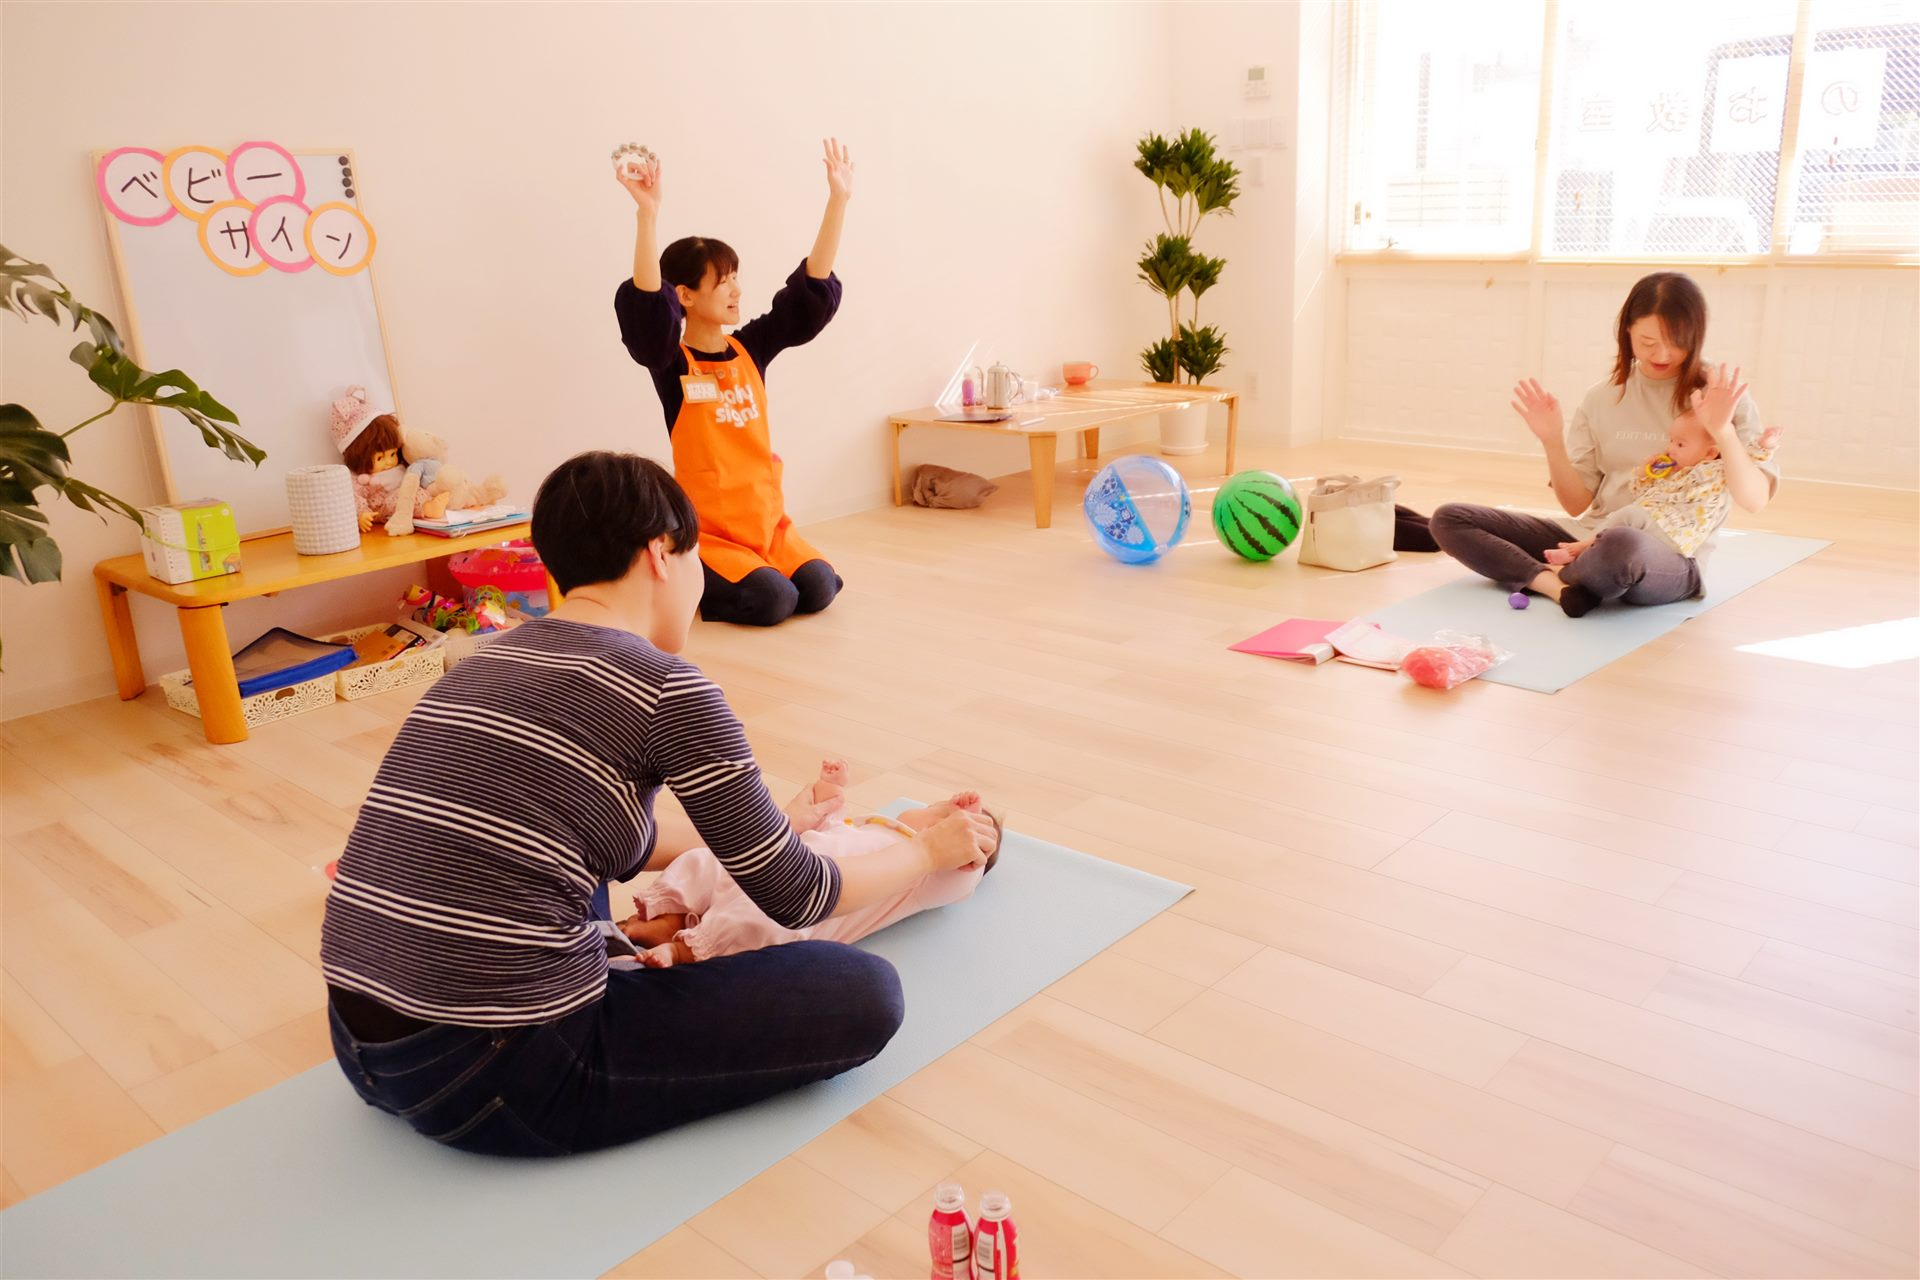
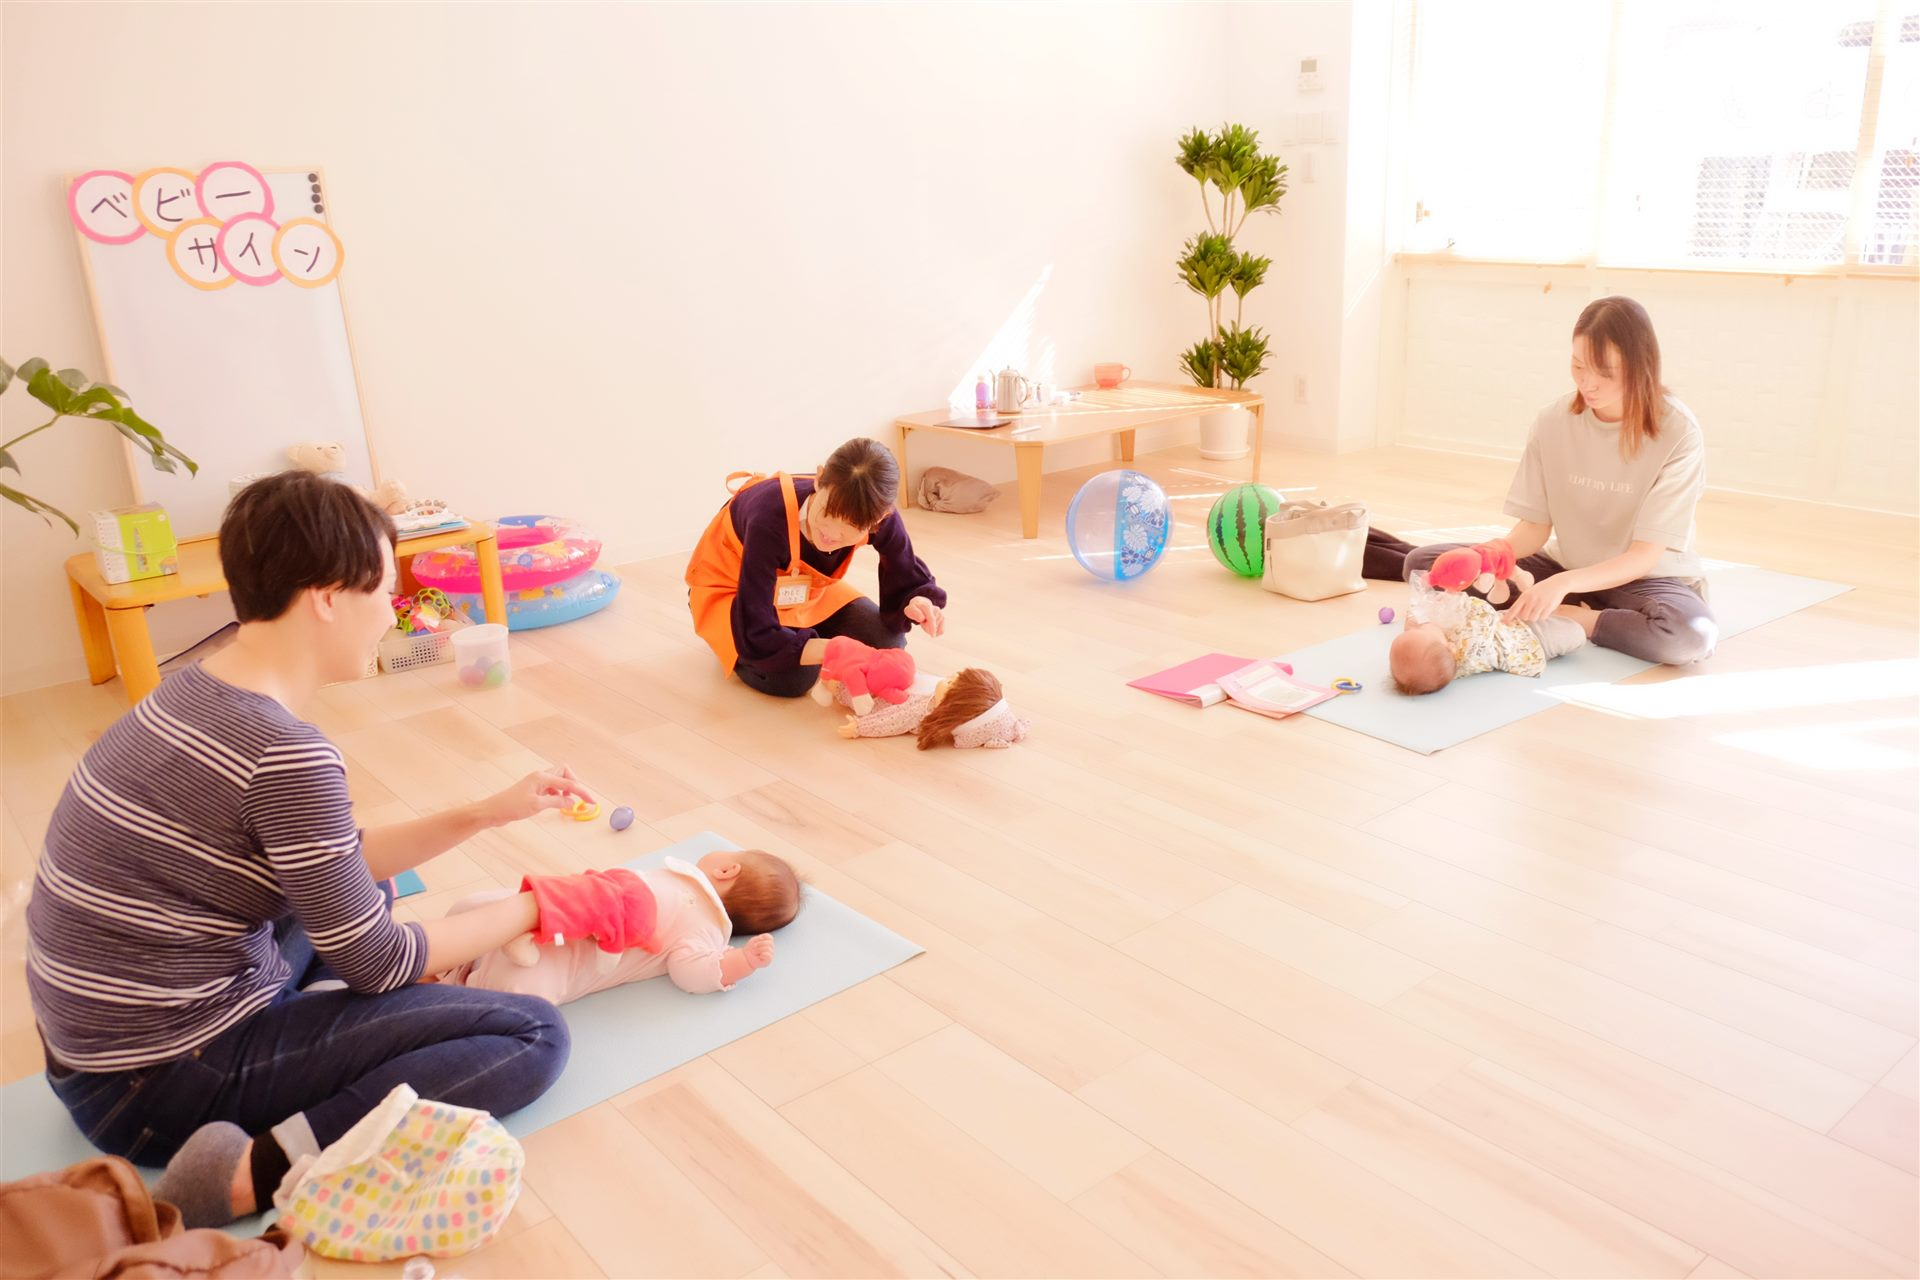
インストラクター写真・ベビーサインFV写真を差し替え、クロップ位置修正

diff --git a/index.html b/index.html
@@ -86,7 +86,7 @@
       object-fit: cover; object-position: center center;
     }
     .fv-slide:first-child .fv-img { object-position: 47% center; }
-    .fv-slide:nth-child(2) .fv-img { object-position: 20% center; }
+    .fv-slide:nth-child(2) .fv-img { object-position: 35% center; }
     .fv-overlay {
       position: absolute; inset: 0;
       background: rgba(40,35,20,.42);
@@ -295,7 +295,7 @@
     .instructor-card { display: flex; gap: 24px; align-items: flex-start; }
     .instructor-img {
       width: 96px; height: 96px; border-radius: 50%;
-      object-fit: cover; object-position: center top; flex-shrink: 0;
+      object-fit: cover; object-position: 20% center; flex-shrink: 0;
       border: 1px solid var(--line);
     }
     .instructor-name { font-family: var(--serif); font-size: 1.1rem; font-weight: 500; margin-bottom: 2px; }
